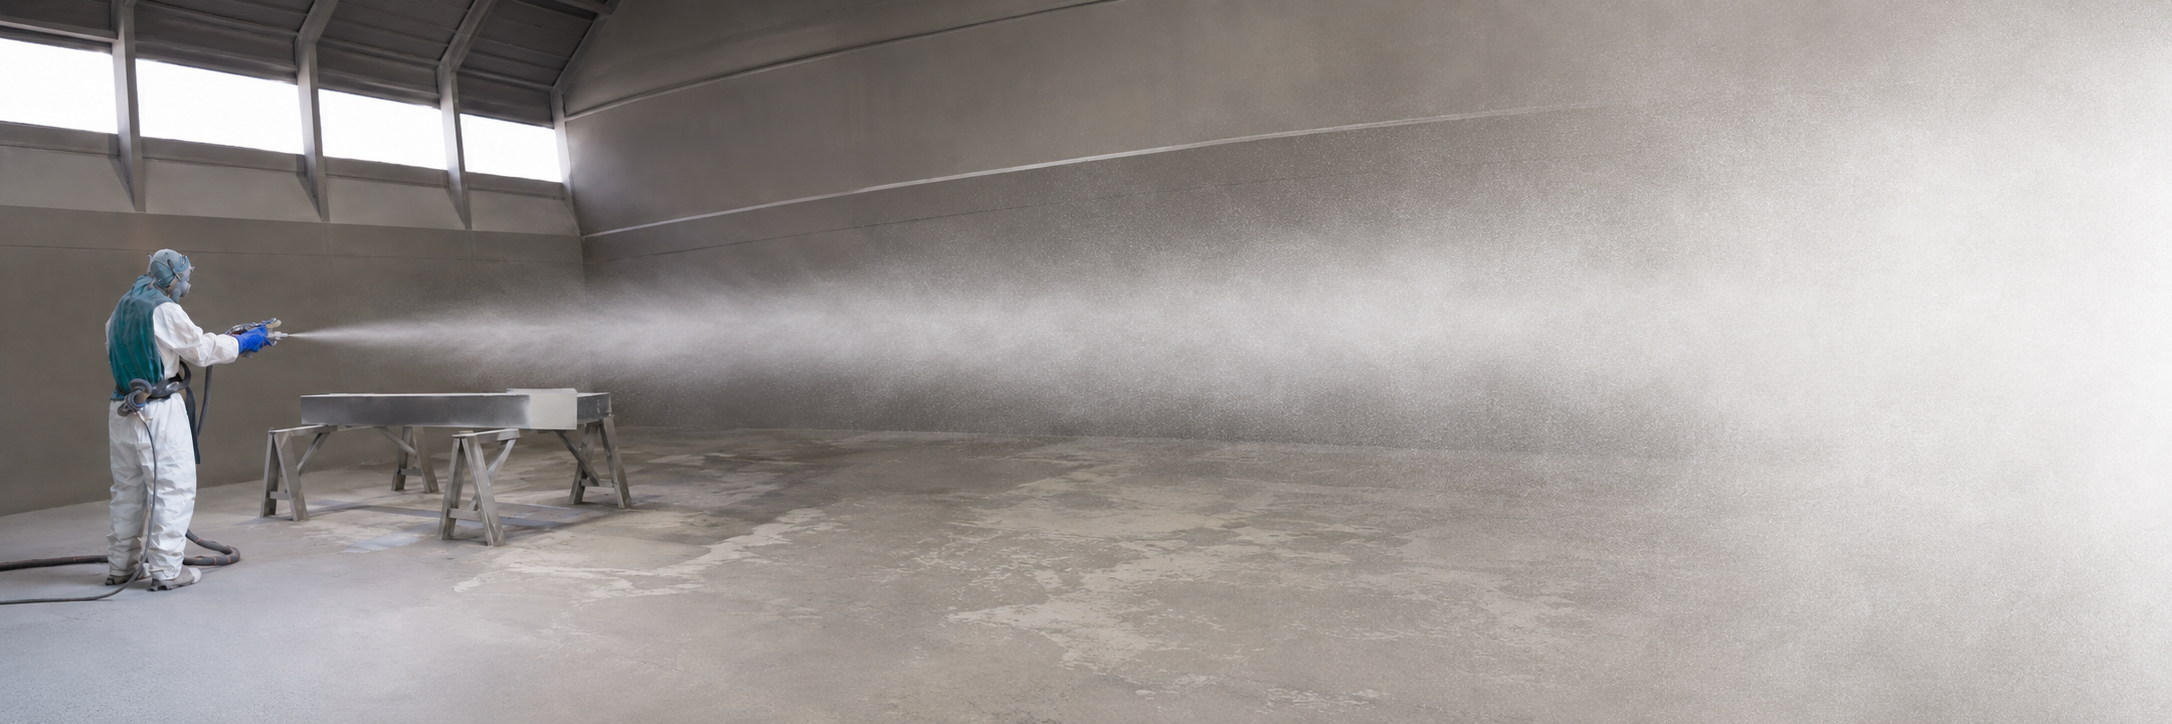
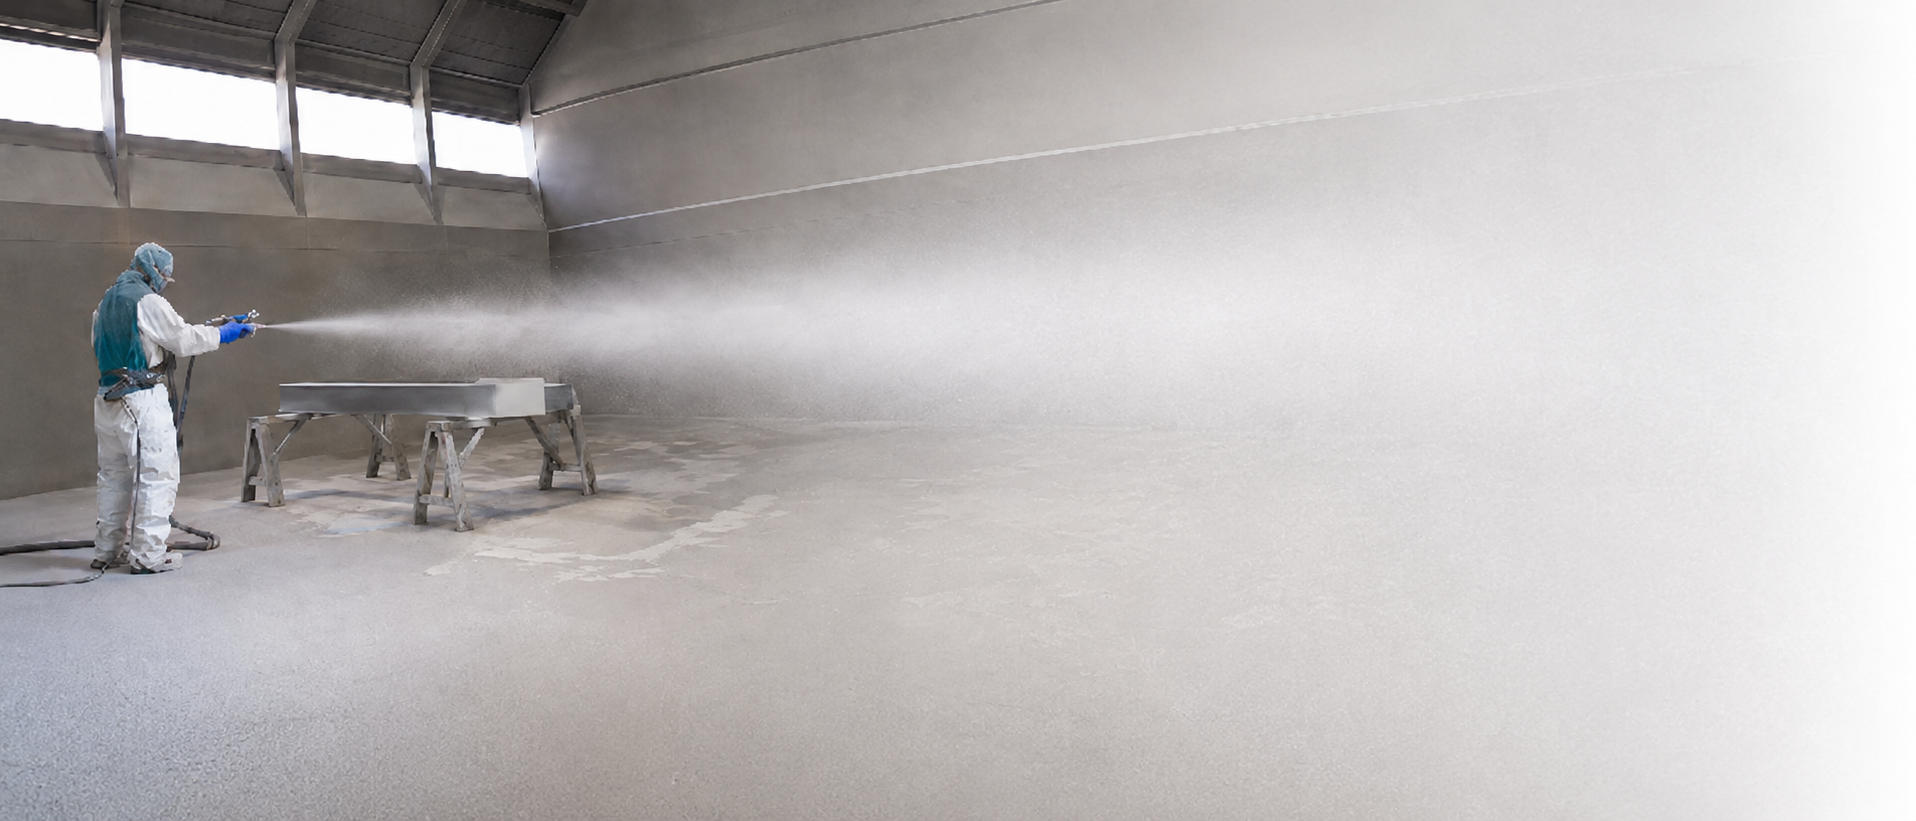
Fix header right-alignment, nav dividers, and search bar background
- Group the persistent search bar + Contattaci button into a dedicated
  .header-menu__actions wrapper with margin-left: auto so they sit hard
  right on the nav row, and hide the now-duplicate icon-triggered search
  button whenever the inline bar is visible (desktop only).
- Add align-self: center to the nav divider and align-items: center to
  the list itself so dividers sit exactly on the button baseline.
- Fix the search input rendering a solid background: the theme's global
  input:not([type=checkbox],[type=radio]) rule outranked the previous
  class selector's specificity, so the input painted over the intended
  glass background. Override with !important and align text/padding to
  match the nav buttons.

diff --git a/assets/custom-header.css b/assets/custom-header.css
@@ -131,6 +131,17 @@ header-component .account-button:hover .account-button__icon {
   color: #3cc3b2;
 }
 
+/* Wherever the persistent inline search bar is visible (desktop,
+   custom_columns nav only — it's display:none below 990px so mobile still
+   needs the native icon), the theme's native icon-triggered search
+   button/search-modal trigger becomes a duplicate entry point — hide it
+   so there's exactly one search affordance in the header. */
+@media screen and (min-width: 990px) {
+  header-component:has(.header-search-bar) .search-action {
+    display: none;
+  }
+}
+
 /* ==========================================================================
    5. Mobile drawer — scoped to the <header-drawer> element specifically
    (not the shared settings.drawer_* colors, which the cart drawer also
